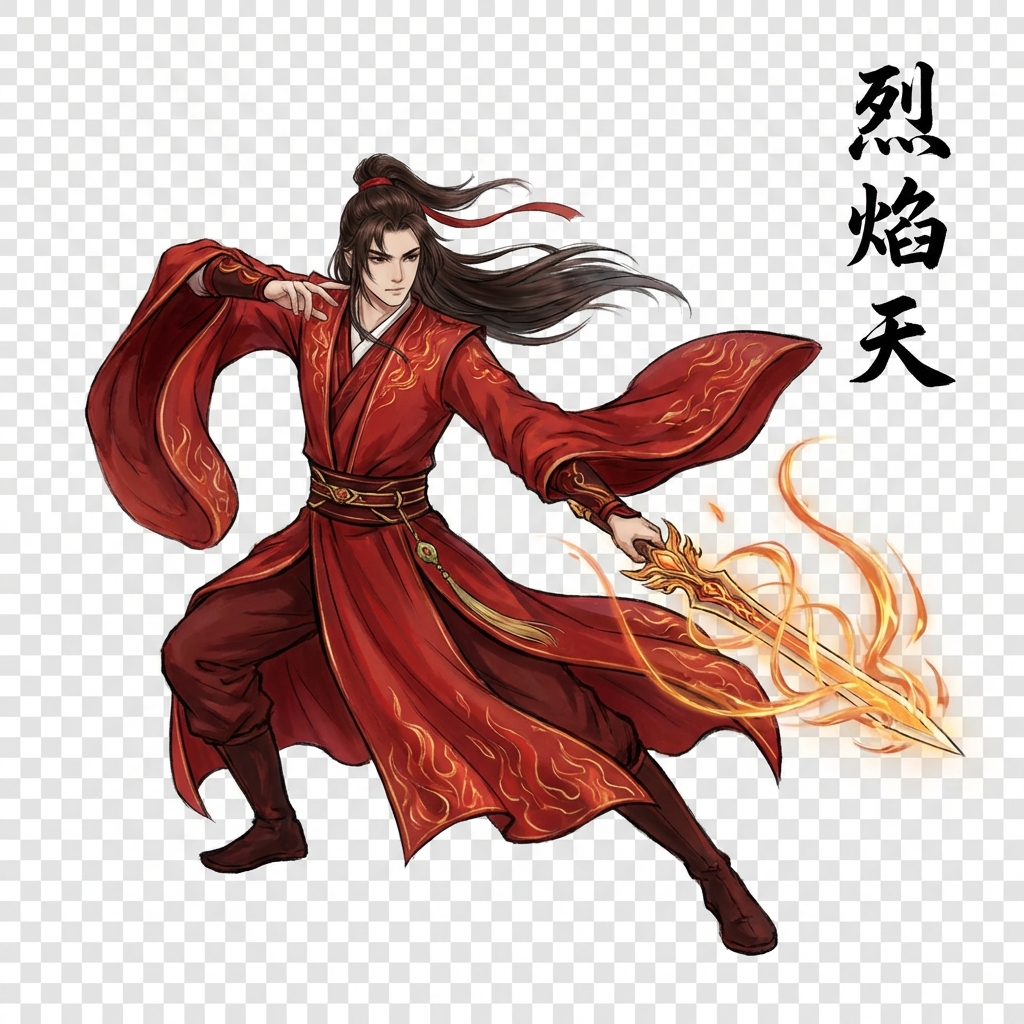
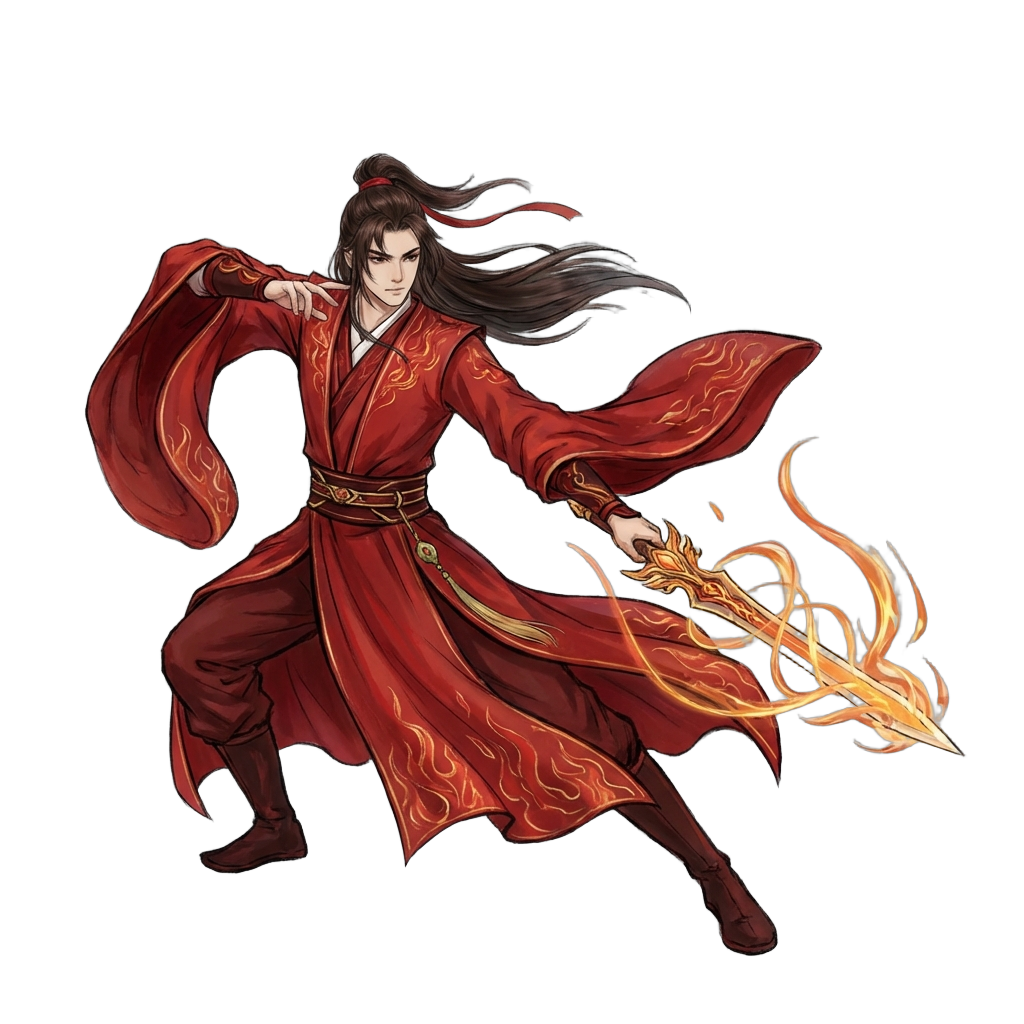
Update game with Shui spritesheet integration and character portraits

diff --git a/main.py b/main.py
@@ -221,6 +221,13 @@ class Game:
             self.bg_image = pygame.image.load("data/menu_bg.png").convert()
         except:
             self.bg_image = None
+        
+        # Load spritesheet
+        try:
+            self.shui_spritesheet = pygame.image.load("data/shui_spritesheet.png").convert_alpha()
+            self.shui_spritesheet = pygame.transform.scale(self.shui_spritesheet, (400, 400)) # Simple scale
+        except:
+            self.shui_spritesheet = None
 
     def trigger_attack_anim(self, target_x, target_y, skill_type):
         self.attack_anim = {
@@ -1006,6 +1013,18 @@ class Game:
     
     def draw_player_model(self, x, y):
         """绘制玩家角色模型 - 水墨武侠风格"""
+        if self.player.element == "水" and self.shui_spritesheet:
+            # Simple spritesheet rendering for Shui
+            # Use self.player.anim_frame to animate
+            frame_width = self.shui_spritesheet.get_width() // 4
+            frame_height = self.shui_spritesheet.get_height() // 4
+            col = (self.player.anim_frame // 10) % 4
+            row = 0
+            rect = pygame.Rect(col * frame_width, row * frame_height, frame_width, frame_height)
+            self.screen.blit(self.shui_spritesheet, (x - frame_width // 2, y - frame_height // 2), rect)
+            self.player.anim_frame += 1
+            return
+
         # 呼吸动画
         breath_offset = math.sin(pygame.time.get_ticks() * 0.003) * 2
         

diff --git a/remove_all_bg.py b/remove_all_bg.py
@@ -1,0 +1,25 @@
+from rembg import remove
+from PIL import Image
+import os
+
+input_dir = "data/portraits"
+output_dir = "data/portraits"
+
+images_to_process = ["jin.png", "mu.png", "shui.png", "tu.png"]
+
+for filename in images_to_process:
+    input_path = os.path.join(input_dir, filename)
+    output_path = os.path.join(output_dir, filename.replace(".png", "_no_bg.png"))
+    
+    if os.path.exists(input_path):
+        print(f"Processing {input_path}...")
+        with open(input_path, 'rb') as i:
+            input_image = i.read()
+            output_image = remove(input_image)
+            with open(output_path, 'wb') as o:
+                o.write(output_image)
+        print(f"Saved to {output_path}")
+    else:
+        print(f"File {input_path} not found.")
+
+print("All tasks completed.")

diff --git a/remove_bg.py b/remove_bg.py
@@ -1,0 +1,14 @@
+from rembg import remove
+from PIL import Image
+import os
+
+input_path = "data/portraits/huo.png"
+output_path = "data/portraits/huo_no_bg.png"
+
+with open(input_path, 'rb') as i:
+    input_image = i.read()
+    output_image = remove(input_image)
+    with open(output_path, 'wb') as o:
+        o.write(output_image)
+
+print(f"Processed {input_path} -> {output_path}")

diff --git a/memory/2026-03-15.md b/memory/2026-03-15.md
@@ -1,0 +1,8 @@
+# 2026-03-15 功法优化总结
+已完成对《杏杏修仙录 v2》的以下优化：
+- 修复了 BOSS 刷新机制：start_game 会重置 BOSS 状态。
+- 突破等级：要求提升至 10 级。
+- 功法冷却：按等级 (基础/初级/中级/高级) 重新定义，分别为 1-3s, 5-10s, 10-15s, 15-20s。
+- 图鉴优化：支持按五行分类展示，并完整显示所有属性（伤害/治疗/护盾/范围/链技）。
+- 技能提示：UI悬浮窗显示详细数值。
+- 工具脚本：`optimize_techniques.py` 用于自动处理配置。
